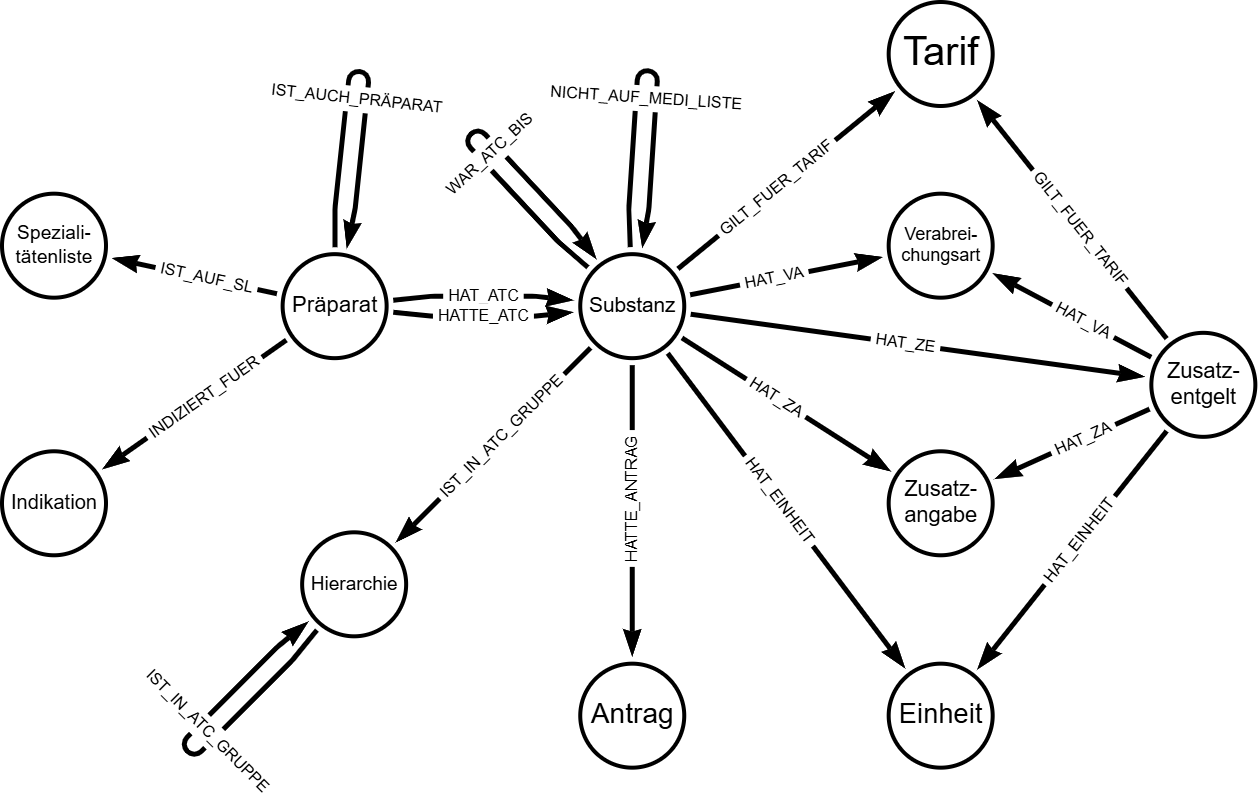
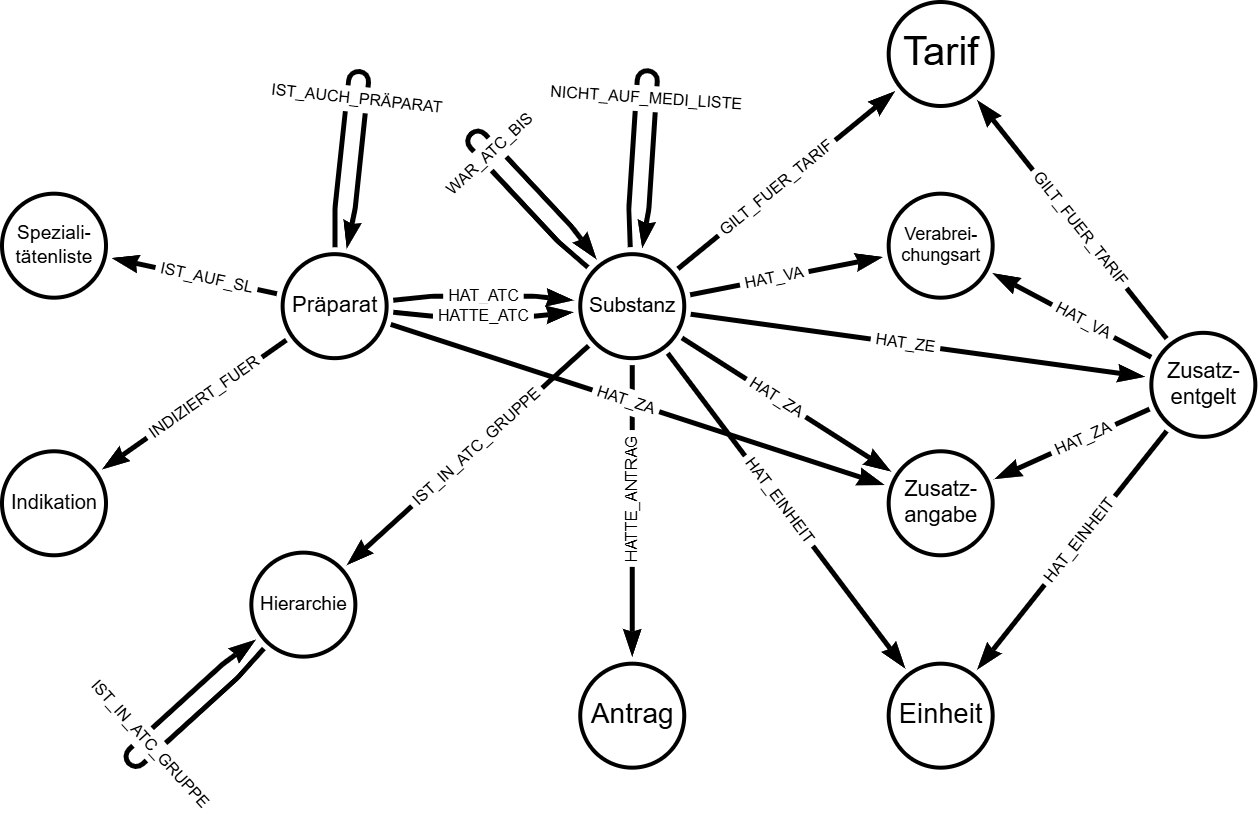
Add manual input/additional relation "HAT_ZA" from "Präparat" to "Zusatzangabe"

diff --git a/README.md b/README.md
@@ -4,6 +4,8 @@
 
 Christian Franke hat im erstem Halbjahr 2025 eine Bachelor-Thesis im Studiengang Medizininformatik an der Berner Fachhochschule durchgeführt. Das Ziel war es, diverse Medikamentendaten in eine übersichtliche Datenbank zu vereinen. Als Datenbank wurde die Graph-Datenbank Neo4j verwendet. Die SwissDRG AG hat das Projekt in Auftrag gegeben.
 
+Das Projekt wurde im Sommer 2025 erfolgreich abgeschlossen. Gewisse Details wurden diesem Repository nach Abgabe der Bachelorarbeit hinzugefügt. Die Weiterentwicklung erfolgt nun jedoch hauptsächlich innerhalb der SwissDRG AG, weil eine Synchronisierung der Code-Basis zwischen privater und beruflicher Infrastruktur unpraktisch ist. Dennoch könnten Updates auch in Zukunft hier veröffentlicht werden.
+
 ## Neo4j
 
 [Neo4j](https://neo4j.com) gehört zu den bekanntesten Graph-Datenbanken. Im Rahmen der Bachelorarbeit wurde Neo4j 5.26.1 verwendet. Die Entwicklung erfolgte in Neo4j Desktop mit der Neo4j 5.26.1 Enterprise Datenbank. Zudem wurde die Cloud-Lösung Neo4j Aura sowie eine dockerisierte Datenbank in der Community Edition verwendet.
@@ -59,4 +61,4 @@ Der Ordner Resources `./src/resources` dient einerseits als Zwischenspeicher fü
 
 Nachdem die benötigten Dateien im Import-Ordner **der Neo4j-Datenbank** gespeichert wurden, kann das Cypher-Skript `create medi graph.cypher` im Ordner `./src/main` laufen gelassen werden. Das Skript kann wahlweise in die Neo4j-Browser-Umgebung kopiert oder mit Hilfe der VS Code Extension direkt gestartet werden.
 
-Nachdem das Datenmodell erstellt wurde, sollten 13 Labels (Knoten-Typen) und 14 unterschiedlichen Relationen vorhanden sein. Die Zahl der Knoten sollte bei rund 20'000 und die Zahl der Relationen bei ca. 40'000 liegen. Das Datenmodells wird ausführlich im [Benutzerhandbuch](/doc/Benutzerhandbuch.MD) beschrieben.
+Nachdem das Datenmodell erstellt wurde, sollten 11 Labels (Knoten-Typen) und 14 unterschiedlichen Relationen vorhanden sein. Die Zahl der Knoten sollte bei rund 20'000 und die Zahl der Relationen bei ca. 40'000 liegen. Das Datenmodells wird ausführlich im [Benutzerhandbuch](/doc/Benutzerhandbuch.MD) beschrieben.

diff --git a/doc/Benutzerhandbuch.MD b/doc/Benutzerhandbuch.MD
@@ -31,10 +31,10 @@ Die Knoten handelt es sich um:
 
 Zwischen den Knoten wurden diverse Relationen erstellt (teilweise Mehrfach-Relationen)
 
-- GILT_FUER_TARIF: Relation einer Substanz der Liste der hochteuren Medikamente oder eines Zusatzentgeltes zum Tarif (zweifache Relation)
-- HAT_EINHEIT: Relation einer Substanz der Liste der hochteuren Medikamente oder eines Zusatzentgeltes zur Einheit (zweifache Relation)
-- HAT_VA: zweifache Relation einer Substanz der Liste der hochteuren Medikamente oder eines Zusatzentgeltes zur Verabreichungsart (VA)
-- HAT_ZA: zweifache Relation einer Substanz der Liste der hochteuren Medikamente oder eines Zusatzentgeltes zur Zusatzangabe (ZA)
+- GILT_FUER_TARIF: zwei Relationen einer Substanz der Liste der hochteuren Medikamente oder eines Zusatzentgeltes zum Tarif
+- HAT_EINHEIT: zwei Relationen einer Substanz der Liste der hochteuren Medikamente oder eines Zusatzentgeltes zur Einheit
+- HAT_VA: zwei Relationen einer Substanz der Liste der hochteuren Medikamente oder eines Zusatzentgeltes zur Verabreichungsart (VA)
+- HAT_ZA: drei Relationen einer Substanz der Liste der hochteuren Medikamente oder eines Zusatzentgeltes zur Zusatzangabe (ZA)
 - HAT_ZE: Relation einer Substanz der Liste der hochteuren Medikamente zu ein Zusatzentgelt (ZE)
 - HATTE_ANTRAG: Relation einer Substanz der Liste der hochteuren Medikamente zun Anträgen des Antragsverfahrens
 - WAR_ATC_BIS: Relation einer Substanz zu sich selbst, falls der ATC-Code in der Vergangenheit geändert hat inkl. Relationenproperties
